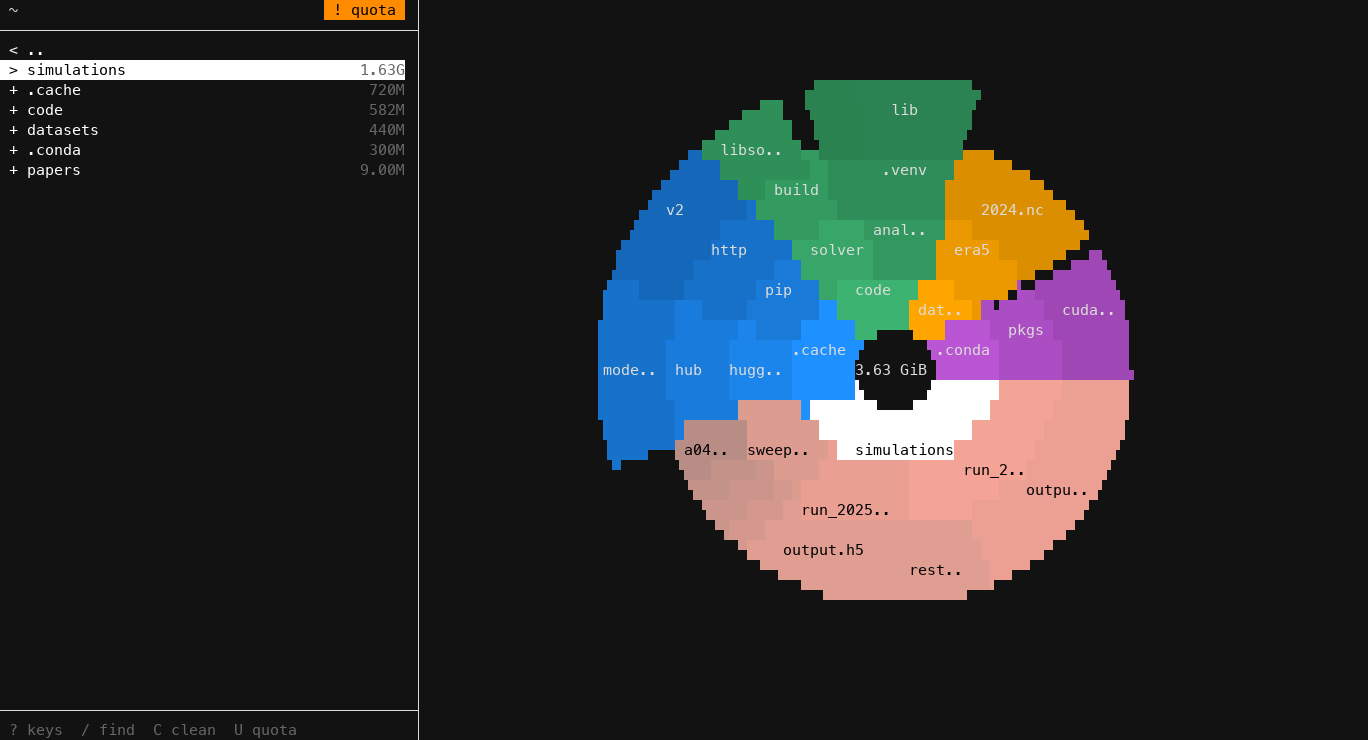
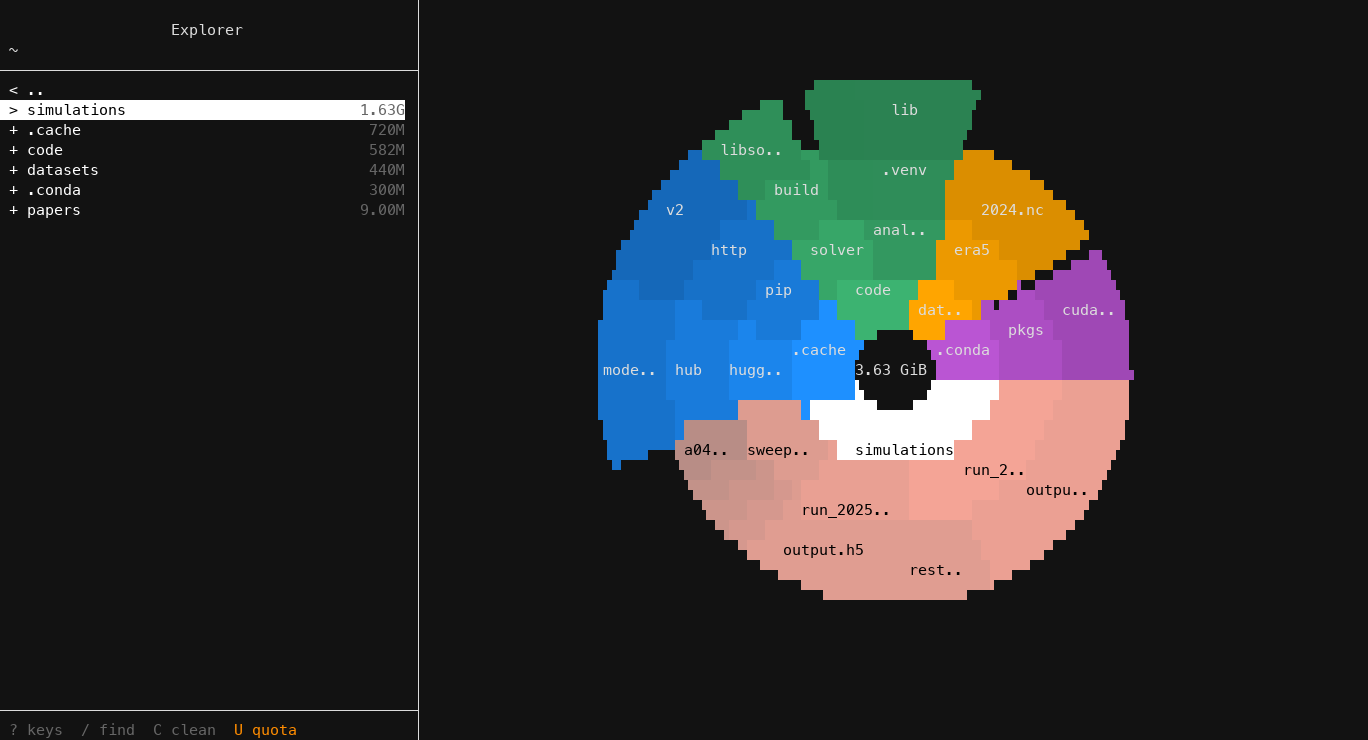
Explorer title back, quota alert on the keys line
- The header is "Explorer" again, with [disk] / [files] / [by name] / [oldest first] only when F or S
  change what is shown, and the path under it inside a folder (nothing above your spaces).
- No quota badge on top: when a quota needs attention, the U of the keys line turns orange.

diff --git a/src/main.cpp b/src/main.cpp
@@ -981,22 +981,22 @@ int main(int argc, char* argv[]) {
         const Scanner::Metric metric = scanner.getMetric();
         const AppData::Sort sort = data->sort.load();
 
-        /* Header: where the explorer is, then only what differs from the start (what F and S show) and the quota badge
+        /* Header: the title, with what F and S show when it isn't the usual, then where the explorer is
+        - At the top (your spaces) the list says it all: no path
         - What runs and what happened go at the bottom, the keys are in ? (one line of the main ones)
         */
-        const std::string here = scanner.isSpacesView(*data->path) ? "your spaces" : scope.display(*data->path);
+        const std::string here = scanner.isSpacesView(*data->path) ? "" : scope.display(*data->path);
         const size_t width = static_cast<size_t>(std::max(config.SIDEBAR_WIDTH - 2, 8));
 
         std::string shown;
-        if (metric == Scanner::Metric::DISK) shown += "disk ";
-        if (metric == Scanner::Metric::INODES) shown += "files ";
-        if (sort == AppData::Sort::NAME) shown += "by name ";
-        if (sort == AppData::Sort::AGE) shown += "oldest first ";
+        auto tag = [&shown](const char* what) { shown += (shown.empty() ? "" : ", ") + std::string(what); };
+        if (metric == Scanner::Metric::DISK) tag("disk");
+        if (metric == Scanner::Metric::INODES) tag("files");
+        if (sort == AppData::Sort::NAME) tag("by name");
+        if (sort == AppData::Sort::AGE) tag("oldest first");
 
-        const Quota::Report report = quotas.get();
-        const bool ready = quotas.ready();
-        const size_t taken = shown.size() + BonsaiQuotaView::badgeText(report, ready).size() + 2;
-        const size_t room = width > taken + 8 ? width - taken : 8;
+        // A quota needing attention turns the U of the keys line orange: the one place it shows
+        const bool quota_alert = !BonsaiQuotaView::badgeText(quotas.get(), quotas.ready()).empty();
 
         Elements bottom;
 
@@ -1023,16 +1023,18 @@ int main(int argc, char* argv[]) {
         }
 
         bottom.push_back(separator());
-        bottom.push_back(text(FormatUtils::trimSuffix(" ? keys  / find  C clean  U quota", width + 1, "")) | color(Color::GrayDark));
+        bottom.push_back(hbox({
+            text(" ? keys  / find  C clean  ") | color(Color::GrayDark),
+            text("U quota") | color(quota_alert ? Color::RGB(255, 140, 0) : Color::GrayDark),
+        }));
 
         Elements rows = {
+            text(" "),
             hbox({
-                text(" " + FormatUtils::trimMiddle(here, room)) | bold,
-                filler(),
-                text(shown) | color(Color::GrayDark),
-                BonsaiQuotaView::badge(report, ready),
-                text(" "),
-            }),
+                text("Explorer") | bold,
+                text(shown.empty() ? "" : " [" + shown + "]") | color(Color::GrayDark),
+            }) | center,
+            text(" " + FormatUtils::trimMiddle(here, width)) | color(Color::GrayLight),
             separator(),
             hbox({
                 menu_component->Render() | frame | flex,
